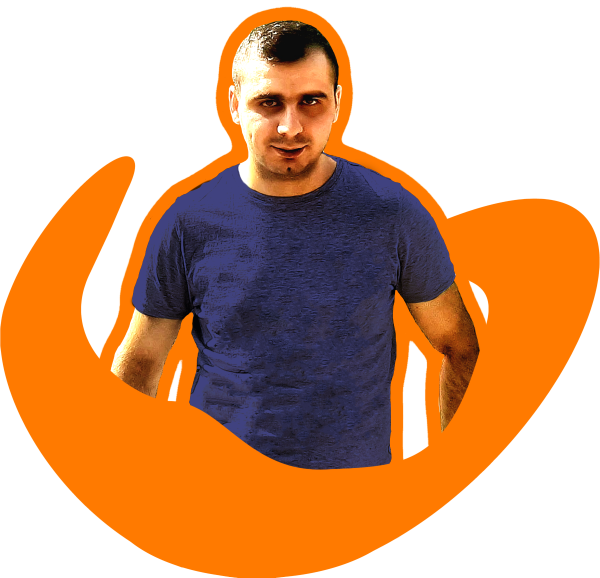
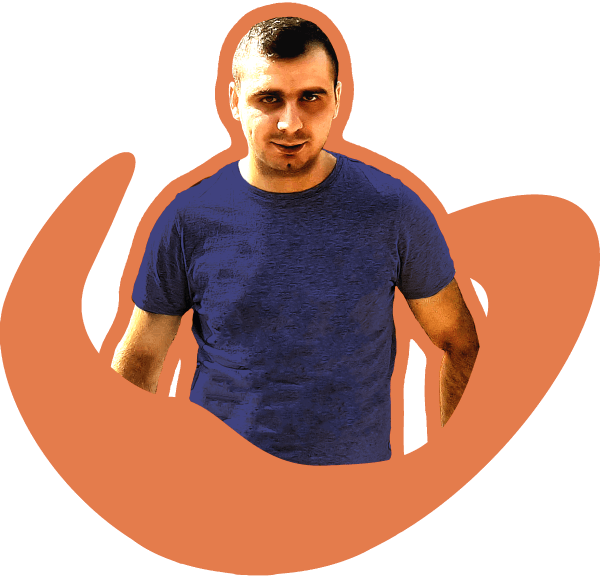
theme change

diff --git a/src/components/MainBg.jsx b/src/components/MainBg.jsx
@@ -1,5 +1,6 @@
 import React from 'react'
 import styles from '../styles/MainBg.module.css'
+import { Colors } from '../helpers/Colors'
 
 const svg1 = (
   <div className={`${styles.svg} ${styles.svg1}`}>
@@ -12,7 +13,7 @@ const svg1 = (
     >
       <path
         d='M29.4038 37.1477C77.114 -20.1493 177.17 -2.96291 195.854 37.2803C215.866 80.3857 204.774 142.616 193.692 107.292L187.699 91.1802L181.143 71.4356C153.061 -8.06461 101.574 26.7884 89.6664 28.4402C34.7818 36.0535 61.0784 52.3408 37.4934 76.9101C13.9084 101.479 11.5214 140.059 29.1376 149.682C46.7539 159.305 44.8145 175.373 58.6102 180.702C72.4059 186.031 76.4019 174.289 81.0109 168.462C85.6198 162.635 128.638 163.627 75.9809 189.74C23.3235 215.853 -35.92 115.598 29.4038 37.1477Z'
-        fill='#FF7A00'
+        fill={Colors.primary}
         fill-opacity='0.20'
       />
     </svg>
@@ -30,7 +31,7 @@ const svg2 = (
     >
       <path
         d='M60.8671 77.504C161.136 -42.9123 371.416 -6.79307 410.68 77.7826C452.738 168.374 429.427 299.157 406.136 224.92L393.542 191.059L379.765 149.564C320.746 -17.5149 212.541 55.7327 187.516 59.2041C72.1697 75.2044 127.435 109.434 77.8684 161.069C28.3019 212.704 23.2851 293.783 60.3077 314.007C97.3304 334.231 93.2545 368.001 122.248 379.201C151.241 390.4 222.314 344.746 232 332.5C241.686 320.254 269.42 343.315 158.754 398.194C48.0888 453.073 -76.4184 242.375 60.8671 77.504Z'
-        fill='#FF7A00'
+        fill={Colors.primary}
         fill-opacity='0.15'
       />
     </svg>
@@ -48,7 +49,7 @@ const svg3 = (
     >
       <path
         d='M193.688 81.4163C-49.5286 240.263 -41.6283 622.213 99.5098 706.696C250.686 797.189 491.678 777.643 364.767 723.46L307.416 695.222L236.684 663.58C-47.154 529.836 99.5098 388 126.572 304.685C192.097 102.961 228.5 208 344 104C442.668 15.1564 585.309 88.3189 663.577 169.941C741.844 251.564 710.052 233.855 705.583 267.546C705.583 267.546 633.438 562.961 740.547 345.504C847.657 128.047 526.696 -136.074 193.688 81.4163Z'
-        fill='#FF7A00'
+        fill={Colors.primary}
         fill-opacity='0.10'
       />
     </svg>
@@ -66,7 +67,7 @@ const svg4 = (
     >
       <path
         d='M471.781 39.0749C44.0707 175.115 -101.725 747.359 73.5977 931.583C261.39 1128.91 628.323 1199.46 461.686 1066.26L387.932 1000.48L295.655 924.086C-71.8469 607.463 222.429 456.378 260 396C433.174 117.705 478.965 240.604 669.862 165.509C860.76 90.4151 1088 286 1088 286C1088 286 1211 376 1160 527.5C1160 527.5 927.982 938.286 1177.19 658.646C1426.39 379.006 1057.39 -147.188 471.781 39.0749Z'
-        fill='#FF7A00'
+        fill={Colors.primary}
         fill-opacity='0.05'
       />
     </svg>

diff --git a/src/components/Footer.jsx b/src/components/Footer.jsx
@@ -4,6 +4,7 @@ import { IoLocationSharp } from 'react-icons/io5'
 import { ImMail4 } from 'react-icons/im'
 import styles from '../styles/Footer.module.css'
 import FooterItem from './FooterItem'
+import { Colors } from '../helpers/Colors'
 
 const Footer = () => {
   return (
@@ -19,7 +20,7 @@ const Footer = () => {
           >
             <path
               d='M29.4038 37.1477C77.114 -20.1493 177.17 -2.96291 195.854 37.2803C215.866 80.3857 204.774 142.616 193.692 107.292L187.699 91.1802L181.143 71.4356C153.061 -8.06461 101.574 26.7884 89.6664 28.4402C34.7818 36.0535 61.0784 52.3408 37.4934 76.9101C13.9084 101.479 11.5214 140.059 29.1376 149.682C46.7539 159.305 44.8145 175.373 58.6102 180.702C72.4059 186.031 76.4019 174.289 81.0109 168.462C85.6198 162.635 128.638 163.627 75.9809 189.74C23.3235 215.853 -35.92 115.598 29.4038 37.1477Z'
-              fill='#FF7A00'
+              fill={Colors.primary}
               fill-opacity='0.20'
             />
           </svg>
@@ -34,7 +35,7 @@ const Footer = () => {
           >
             <path
               d='M29.4038 37.1477C77.114 -20.1493 177.17 -2.96291 195.854 37.2803C215.866 80.3857 204.774 142.616 193.692 107.292L187.699 91.1802L181.143 71.4356C153.061 -8.06461 101.574 26.7884 89.6664 28.4402C34.7818 36.0535 61.0784 52.3408 37.4934 76.9101C13.9084 101.479 11.5214 140.059 29.1376 149.682C46.7539 159.305 44.8145 175.373 58.6102 180.702C72.4059 186.031 76.4019 174.289 81.0109 168.462C85.6198 162.635 128.638 163.627 75.9809 189.74C23.3235 215.853 -35.92 115.598 29.4038 37.1477Z'
-              fill='#FF7A00'
+              fill={Colors.primary}
               fill-opacity='0.10'
             />
           </svg>

diff --git a/src/components/PortfolioCard.jsx b/src/components/PortfolioCard.jsx
@@ -1,12 +1,24 @@
 import 'aos/dist/aos.css'
 import styles from '../styles/PortfolioCard.module.css'
+import { Colors } from '../helpers/Colors'
 
 const PortfolioCard = ({ img, title, url }) => {
   return (
     <div data-aos='fade-up' data-aos-duration='1000' className={styles.card}>
       <a href={url} target='_blank'>
-        <div className={styles.overlay}>
-          <div className={styles.wave}></div>
+        <div
+          className={styles.overlay}
+          style={{ backgroundColor: `${Colors.primary}` }}
+        >
+          <div className={styles.wave}>
+            <svg xmlns='http://www.w3.org/2000/svg' viewBox='0 0 1440 320'>
+              <path
+                fill={Colors.primary}
+                fill-opacity='1'
+                d='M0,128L48,112C96,96,192,64,288,69.3C384,75,480,117,576,138.7C672,160,768,160,864,138.7C960,117,1056,75,1152,80C1248,85,1344,139,1392,165.3L1440,192L1440,320L1392,320C1344,320,1248,320,1152,320C1056,320,960,320,864,320C768,320,672,320,576,320C480,320,384,320,288,320C192,320,96,320,48,320L0,320Z'
+              ></path>
+            </svg>
+          </div>
           <div className={styles.title}>
             <h4>{title}</h4>
           </div>

diff --git a/src/components/Portfolio.jsx b/src/components/Portfolio.jsx
@@ -12,6 +12,7 @@ import image5 from '../assets/cardImages/image5.png'
 import image6 from '../assets/cardImages/image6.png'
 import image7 from '../assets/cardImages/image7.png'
 import PortfolioBg from './PortfolioBg'
+import { Colors } from '../helpers/Colors'
 
 const cards = [
   {
@@ -81,11 +82,14 @@ const Portfolio = () => {
         >
           <path
             d='M0 34.7884C60 34.7884 40.5 -11.7774 95 6.0902C136 23.5 140.324 -0.589757 160 0.155429C195.5 1.49991 172 13.0387 223 6.09015C257.48 1.39244 247 34.7884 300 34.7884C200 34.7884 100 34.7884 0 34.7884Z'
-            fill='#FF7A00'
+            fill={Colors.primary}
           />
         </svg>
       </div>
-      <div className={styles.bg}>
+      <div
+        className={styles.bg}
+        style={{ backgroundColor: `${Colors.primary}` }}
+      >
         <div className={styles.title}>
           <h3 data-aos='fade-down' data-aos-duration='1500'>
             Portfolio

diff --git a/src/components/Header.jsx b/src/components/Header.jsx
@@ -1,6 +1,7 @@
 import styles from '../styles/Header.module.css'
 import ScrollTopBtn from './ScrollTopBtn'
 import HamburgerMenu from './HamburgerMenu'
+import { Colors } from '../helpers/Colors'
 
 import 'aos/dist/aos.css'
 
@@ -32,8 +33,8 @@ const Header = () => {
               y2='171.652'
               gradientUnits='userSpaceOnUse'
             >
-              <stop stopColor='#F87537' />
-              <stop offset='1' stopColor='#FBA81F' />
+              <stop stopColor='#b86038' />
+              <stop offset='1' stopColor={Colors.primary} />
             </linearGradient>
             <clipPath id='clip0_145_12'>
               <rect

diff --git a/src/App.css b/src/App.css
@@ -1,3 +1,9 @@
+:root {
+  --gradient: linear-gradient(to left, var(--secondary), #313362);
+  --primary: hsl(19, 74%, 60%);
+  --secondary: #101133;
+}
+
 @import url('https://fonts.googleapis.com/css2?family=Roboto:wght@100;300;400;500;700;900&display=swap');
 
 /* Box sizing rules */
@@ -51,12 +57,6 @@ button,
 textarea,
 select {
   font: inherit;
-}
-
-:root {
-  --gradient: linear-gradient(to left, #101133, #313362);
-  --primary: #ff7a00;
-  --secondary: #101133;
 }
 
 body {

diff --git a/src/styles/Main.module.css b/src/styles/Main.module.css
@@ -12,6 +12,10 @@
   width: 600px;
 }
 
+.text {
+  max-width: 300px;
+}
+
 .title {
   font-size: 4.5rem;
   line-height: 1.2;
@@ -22,7 +26,7 @@
 }
 
 .desc {
-  font-size: 1.5rem;
+  font-size: 1.725rem;
 }
 
 .hero {
@@ -57,10 +61,6 @@
   font-size: 3.375rem;
 }
 
-.text {
-  max-width: 400px;
-}
-
 @media screen and (max-width: 1050px) {
   .img {
     width: 400px;
@@ -91,7 +91,7 @@
   }
 
   .desc {
-    font-size: 1.125rem;
+    font-size: 1.375rem;
   }
 
   .portfolio h3 {

diff --git a/src/styles/Portfolio.module.css b/src/styles/Portfolio.module.css
@@ -18,7 +18,6 @@
   align-items: center;
   justify-content: center;
   width: 100%;
-  background-color: var(--primary);
   position: relative;
   z-index: 1;
   padding-bottom: 4rem;
@@ -58,15 +57,6 @@
   .wave1 {
     transform: translate(-50%, -74px) scale(5, 4);
   }
-}
-
-.wave2 {
-  background: url(../assets/wave1.svg);
-  background-position-y: -4vw;
-  width: 100%;
-  height: 15vw;
-  background-size: cover;
-  transform: rotateX(180deg) translateY(5px);
 }
 
 .cards {

diff --git a/src/components/Main.jsx b/src/components/Main.jsx
@@ -20,9 +20,7 @@ const Main = () => {
         <h1 className={styles.title}>
           Hi! I Am <br /> <span>Lalvar</span>
         </h1>
-        <p className={styles.desc}>
-          I am an artist, designer, and self-taught Front-End developer.
-        </p>
+        <p className={styles.desc}>I am a Front-end React developer.</p>
       </div>
       <div className={styles.hero} data-aos='fade-up' data-aos-duration='1500'>
         <div className={styles.img}>

diff --git a/src/styles/PortfolioCard.module.css b/src/styles/PortfolioCard.module.css
@@ -23,7 +23,6 @@
   position: absolute;
   left: 0;
   bottom: 0;
-  background-color: var(--primary);
   width: 100%;
   height: 100px;
   text-align: center;
@@ -35,9 +34,14 @@
 .wave {
   width: 500px;
   height: 60px;
-  background: url(../assets/wave1.svg);
   background-size: cover;
   transform: translateY(-80px);
+}
+
+@media screen and (max-width: 1000px) {
+  .wave {
+    transform: translateY(-55px);
+  }
 }
 
 .card h4 {

diff --git a/src/styles/HamburgerMenu.module.css b/src/styles/HamburgerMenu.module.css
@@ -2,8 +2,8 @@
   position: absolute;
   top: 0;
   right: 0;
-  width: 80px;
-  height: 80px;
+  width: 75px;
+  height: 75px;
   font-size: 2rem;
   z-index: 1;
   cursor: pointer;
@@ -18,10 +18,10 @@
 }
 
 .hamburgerMenuBg {
-  transform: scale(0.4, 0.65);
+  transform: scale(0.35, 0.55);
   position: absolute;
   z-index: -1;
-  top: -40px;
+  top: -42px;
   right: -100px;
 }
 

diff --git a/src/styles/Hamburger.module.css b/src/styles/Hamburger.module.css
@@ -9,10 +9,11 @@
   -webkit-user-select: none;
   -ms-user-select: none;
   user-select: none;
+  transform: scale(0.8);
 }
 
 .hamRotate.active {
-  transform: rotate(45deg);
+  transform: rotate(45deg) scale(0.8);
 }
 
 .hamRotate180.active {
